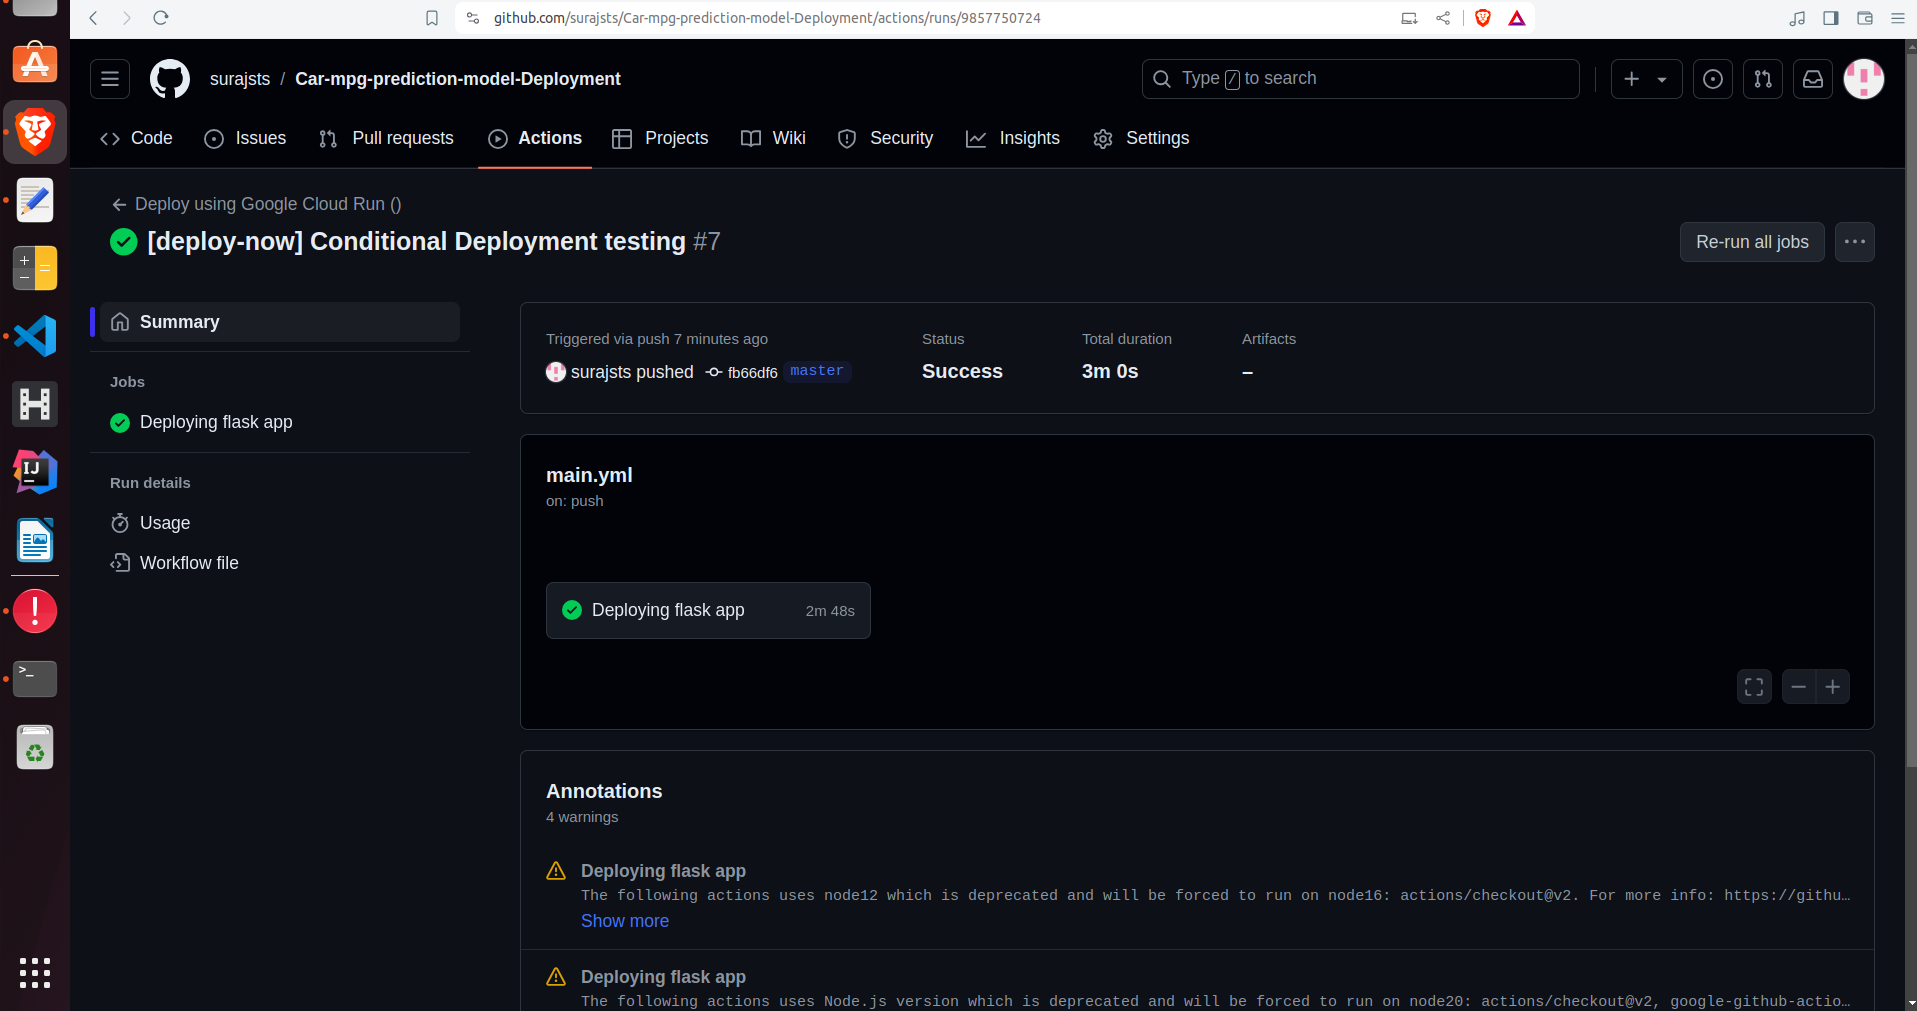
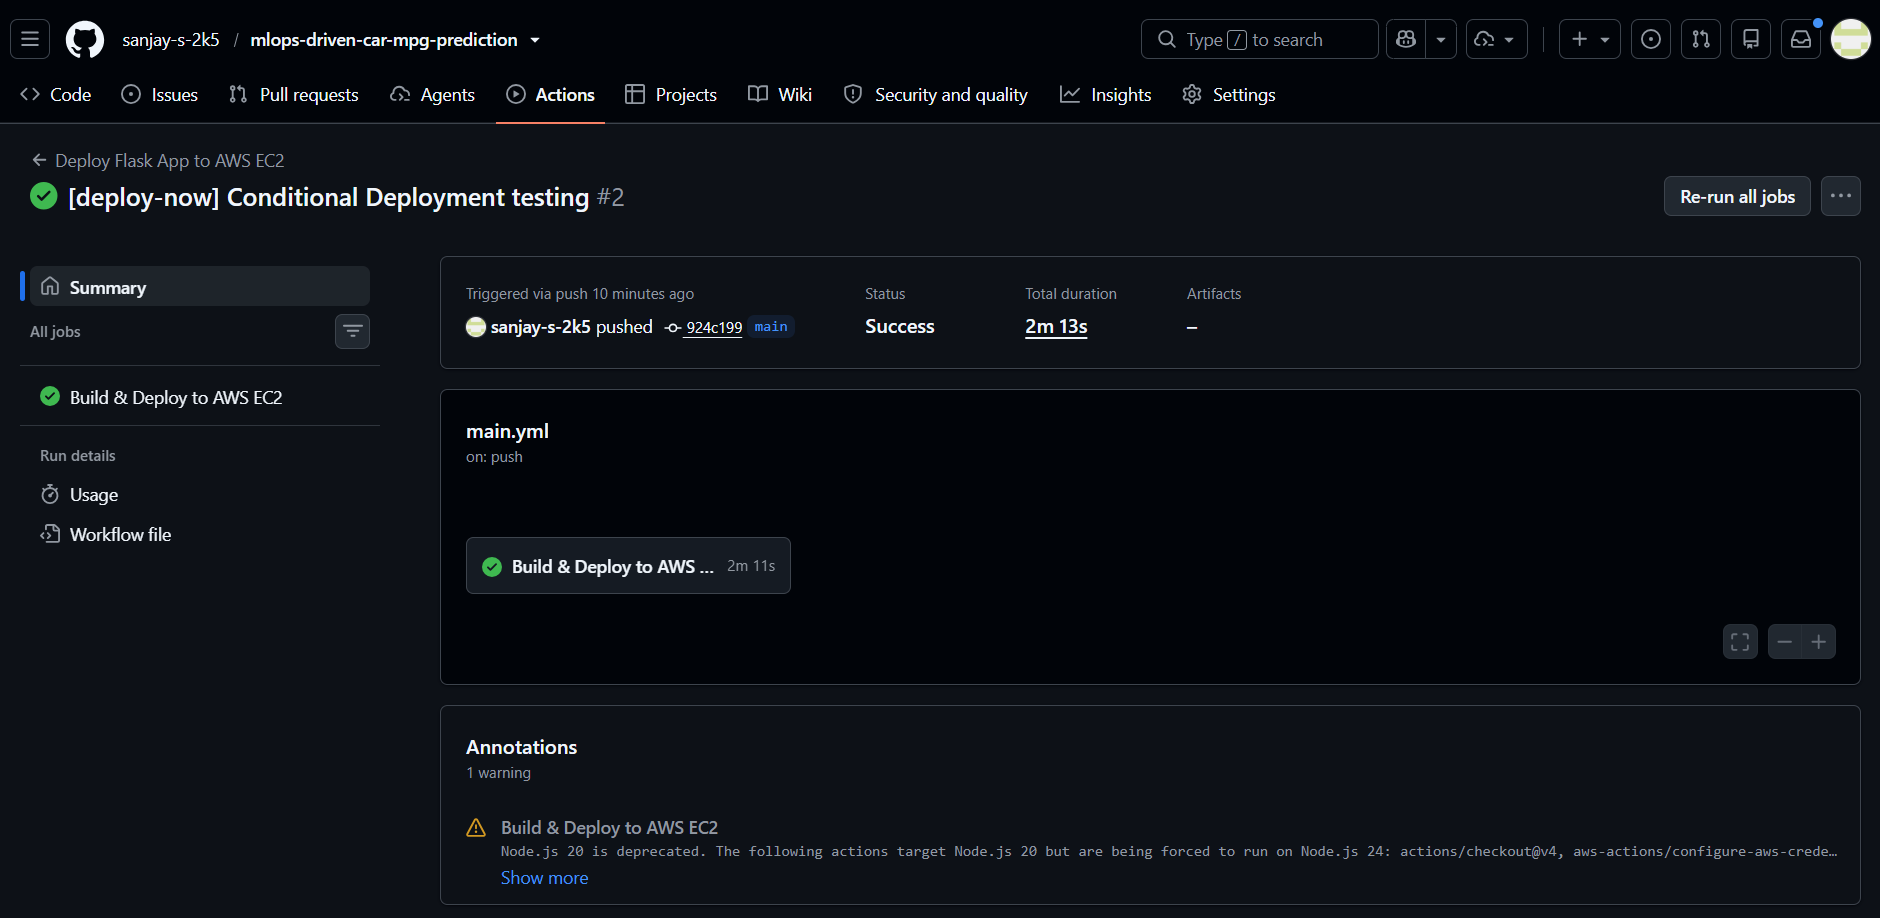
updated README

diff --git a/README.md b/README.md
@@ -1,0 +1,91 @@
+# MLOPS-DRIVEN CAR MPG PREDICTION (AWS EC2 DEPLOYMENT)
+
+<h2> Project Objective:</h2>
+
+<img align="right" alt="Coding" width="400" src="Images/mlops.png">
+
+<p>
+The project aims to focus on Unsupervised Learning approach to increase the model efficiency <br>
+and the core MLOps life cycle concepts (excluding monitoring and retraining) that includes: <br>
+</p>
+- Data Preprocessing<br>
+- Model Training <br>
+- Model Validation<br>
+- Model Packaging (using pickle files and docker images for encapsulation) <br>
+- CI/CD Pipelines with conditional trigger for deployment (GitHub Actions)<br>
+- Model Deployment using Amazon Elastic Container Registry (ECR) for storing Docker images <br>
+  and AWS EC2 (t2.micro / t3.micro) to deploy the dockerized model.<br>
+
+<p>
+<h4> Unsupervised Learning algorithms like K-Means and DBSCAN clustering are performed and interesting relationships between the features (miles per gallon (mpg), weight of car, Horse power) are found. Regression model is trained using original dataset along with the feature labels obtained from the Unsupervised learning models and comparison of various models is done. Finally the best model is saved for the deployment purposes.</h4> 
+
+Dataset is taken from Kaggle.<br> Link : https://www.kaggle.com/datasets/uciml/autompg-dataset</p>
+
+<h2> Amazon Web Services (AWS Free Tier) Used:</h2>
+
+- **AWS ECR (Elastic Container Registry)**: Private Docker image registry (500 MB/month free).
+- **AWS EC2 (t2.micro / t3.micro)**: Server instance (**750 hours/month FREE** for 12 months).
+- **AWS IAM**: Security & Access Management for GitHub Actions CI/CD.
+
+<h3>AWS CLI & Docker Deployment Commands:</h3>
+
+<ul>
+  <li>
+    <strong>Create Elastic Container Registry (ECR):</strong>
+    <pre><code>aws ecr create-repository --repository-name car-mpg-prediction --region us-east-1</code></pre>
+  </li>
+
+  <li>
+    <strong>Authenticate Docker to ECR:</strong>
+    <pre><code>aws ecr get-login-password --region us-east-1 | docker login --username AWS --password-stdin &lt;aws_account_id&gt;.dkr.ecr.us-east-1.amazonaws.com</code></pre>
+  </li>
+
+  <li>
+    <strong>Build & Tag Docker Image:</strong>
+    <pre><code>docker build -t car-mpg-prediction .</code></pre>
+    <pre><code>docker tag car-mpg-prediction:latest &lt;aws_account_id&gt;.dkr.ecr.us-east-1.amazonaws.com/car-mpg-prediction:latest</code></pre>
+  </li>
+
+  <li>
+    <strong>Push Image to Amazon ECR:</strong>
+    <pre><code>docker push &lt;aws_account_id&gt;.dkr.ecr.us-east-1.amazonaws.com/car-mpg-prediction:latest</code></pre>
+  </li>
+
+  <li>
+    <strong>Run Container on EC2 Instance:</strong>
+    <pre><code>docker run -d --name car-mpg-app -p 80:5000 -e PORT=5000 &lt;aws_account_id&gt;.dkr.ecr.us-east-1.amazonaws.com/car-mpg-prediction:latest</code></pre>
+  </li>
+</ul>
+
+<h2> AWS EC2 Instance Setup: </h2>
+
+The AWS EC2 (`t2.micro` / `t3.micro`) instance acts as the host server for running the dockerized Flask web application.
+
+![AWS EC2 Instance](Images/EC2_instance.png)
+
+<h2> GitHub CI/CD Pipeline: </h2>
+
+The automated GitHub Actions workflow (`.github/workflows/main.yml`) performs:
+1. Authentication to AWS using GitHub Secrets (`AWS_ACCESS_KEY_ID`, `AWS_SECRET_ACCESS_KEY`, `AWS_REGION`).
+2. Logging into AWS ECR.
+3. Building & pushing the Docker image to ECR.
+4. SSH connecting into the AWS EC2 instance, pulling the updated Docker image, and running the container.
+
+![GitHub CICD](Images/GithubCICD.png)
+
+<h2> Conditional Deployment: </h2>
+
+Conditional deployment of the ML model is ensured to prevent deployment in the CI/CD pipeline unless the commit message contains <strong>"[deploy-now]"</strong>.
+
+```bash
+git commit -m "[deploy-now] Deploying model to AWS EC2 instance"
+git push origin master
+```
+
+![Conditional Deployment](Images/ConditionalDeployment.png)
+
+<h2> Deployed Model & Live Application: </h2>
+
+The web interface of the deployed Car MPG prediction application running live on AWS EC2.
+
+![Deployed Model](Images/DeployedModel.png)